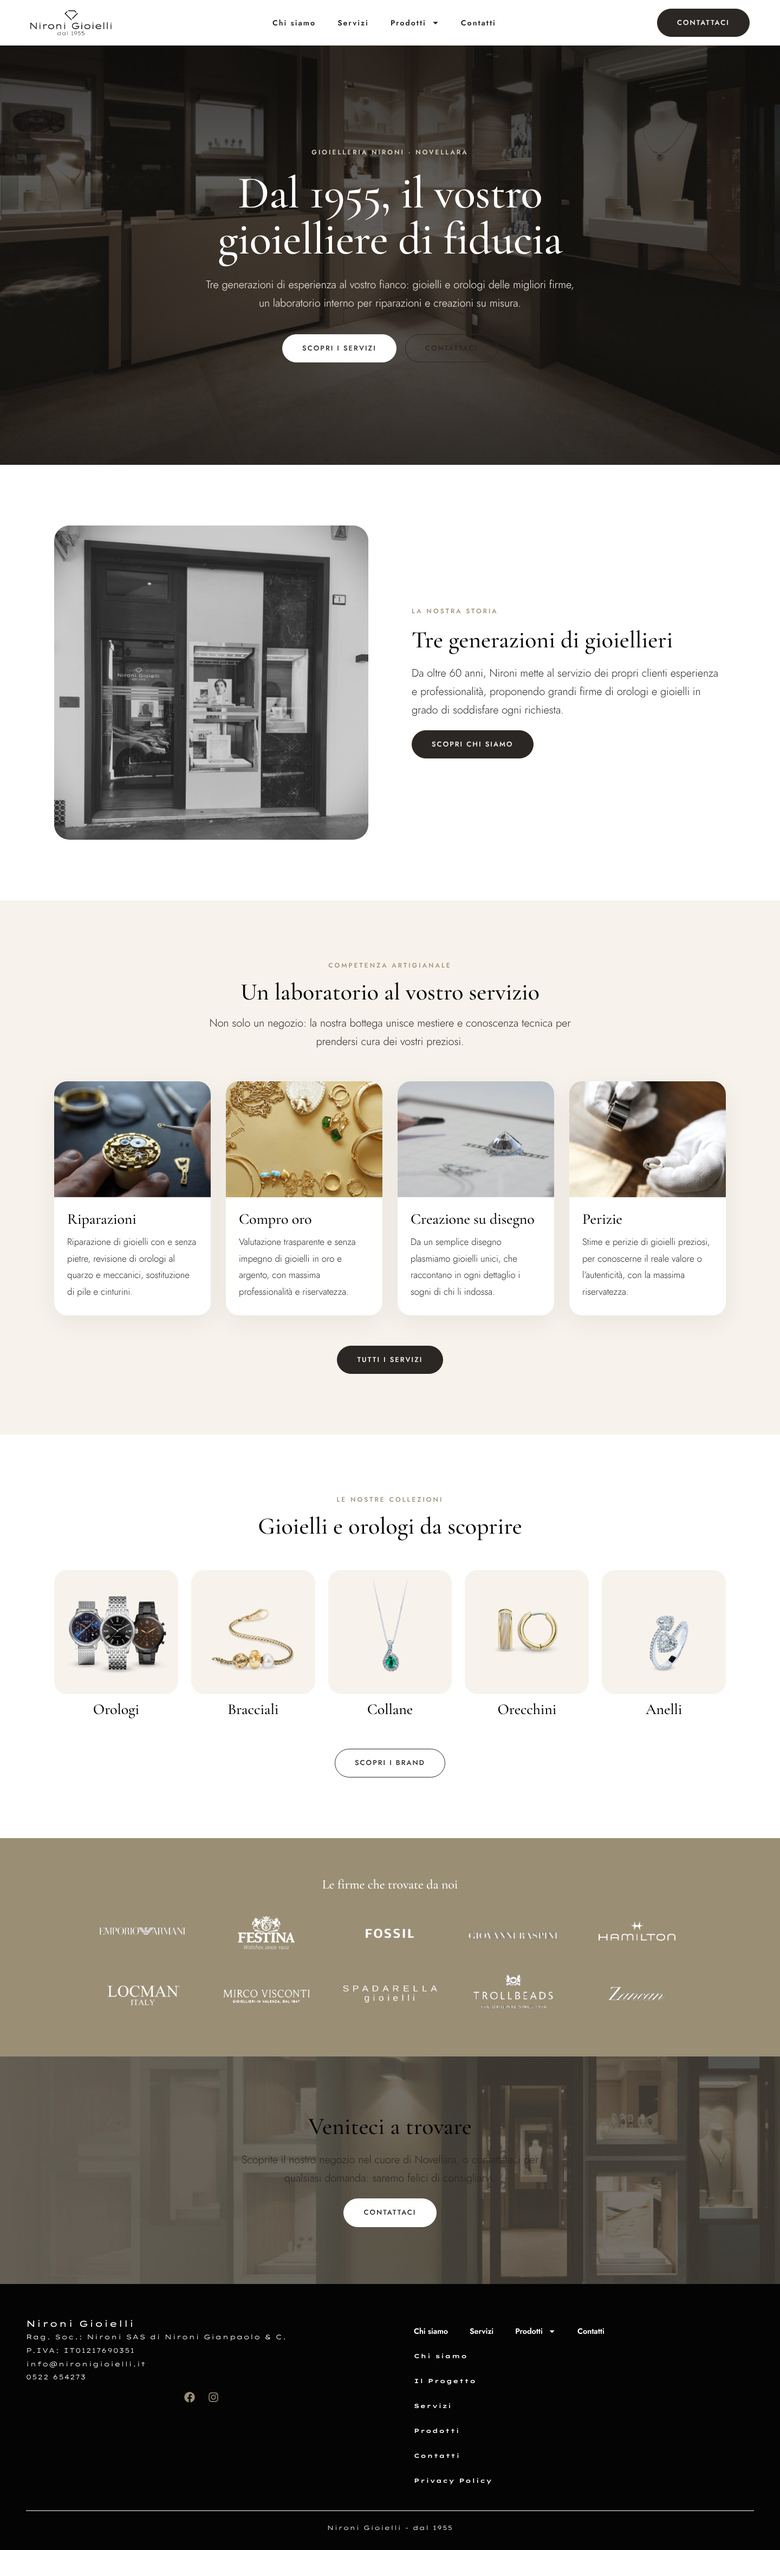
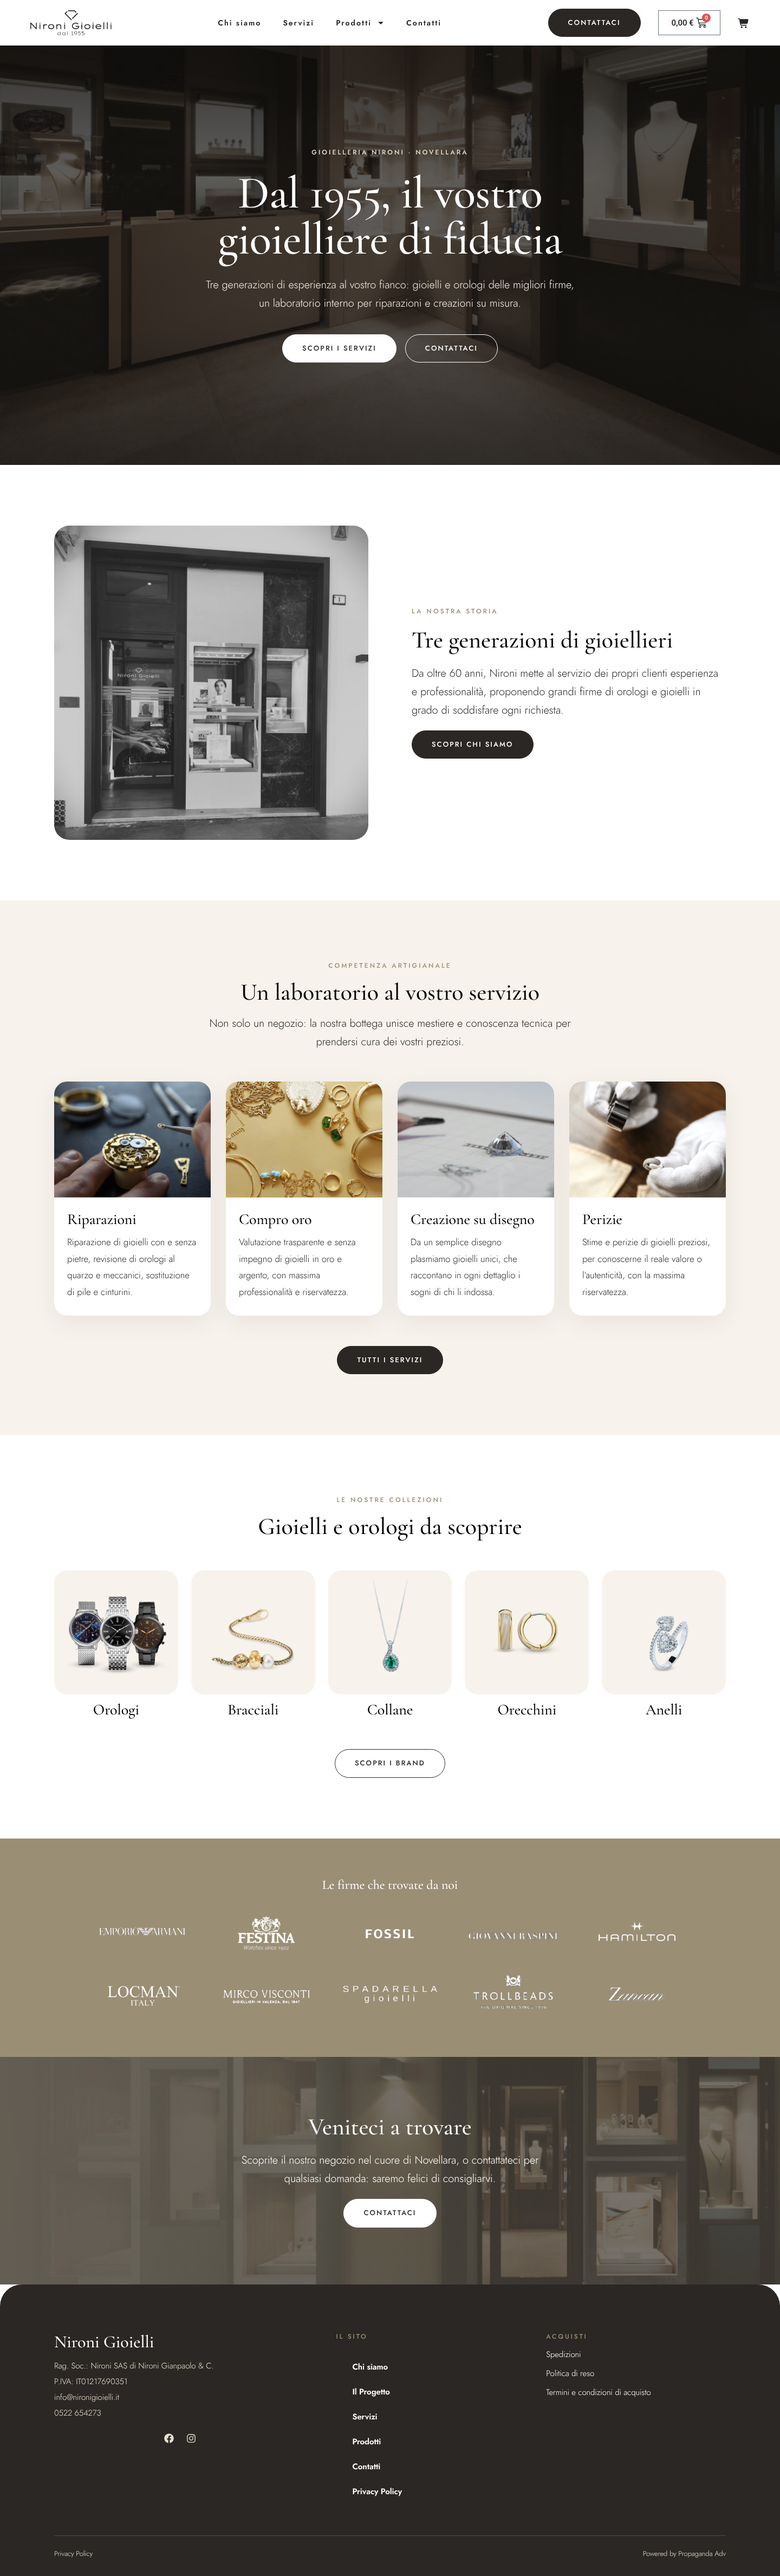
Screenshot dopo e stato aggiornato
Claude-Session: https://claude.ai/code/session_01A3Ykmxkdwa3pYoneMVxz6B

diff --git a/migrazione/STATO.md b/migrazione/STATO.md
@@ -10,3 +10,10 @@ Variabili globali: nironi-oro/nero/bianco/grigio-chiaro, font-titoli (Lexend Zet
 
 Limiti: SVG non caricabili (convertiti in PNG); nessun plugin SEO (meta in inventario/*.json); widget Menu V3 con colori non collegati alle variabili;
 cookie banner Cookiebot e carousel non migrati; LiteSpeed non attivo.
+
+## Fase restyling + e-commerce (12/11/2026)
+Backup UpdraftPlus prima dei lavori: id 20b4e3e7d2321835. Design: Cormorant Garamond (titoli) + Jost (testi), classi globali nl-*, variabili nironi-*.
+Pagine: home 51, chi-siamo 88, servizi 90, prodotti 92 (directory brand), contatti 94, il-progetto 96, privacy 98, spedizioni 170, resi 172, termini 174 (segnaposto), carrello 121, pagamento 122, mio-account 123.
+Header 49 (logo sx, menu centro, CTA "Contattaci" dx, icona carrello), footer 50 (colonna Acquisti + "Powered by Propaganda Adv").
+WooCommerce: brand nativi (Brand Demo 1/2), attributi Genere/Materiale/Taglia, 7 prodotti DEMO in bozza. Documenti cliente in ecommerce/.
+Aperti: impostazioni WooCommerce non scrivibili dal connettore (prezzi IVA inclusa, coming soon, pagamenti), utente Shop Manager, filtri, template Elementor archivio/prodotto singolo, test flusso acquisto.
